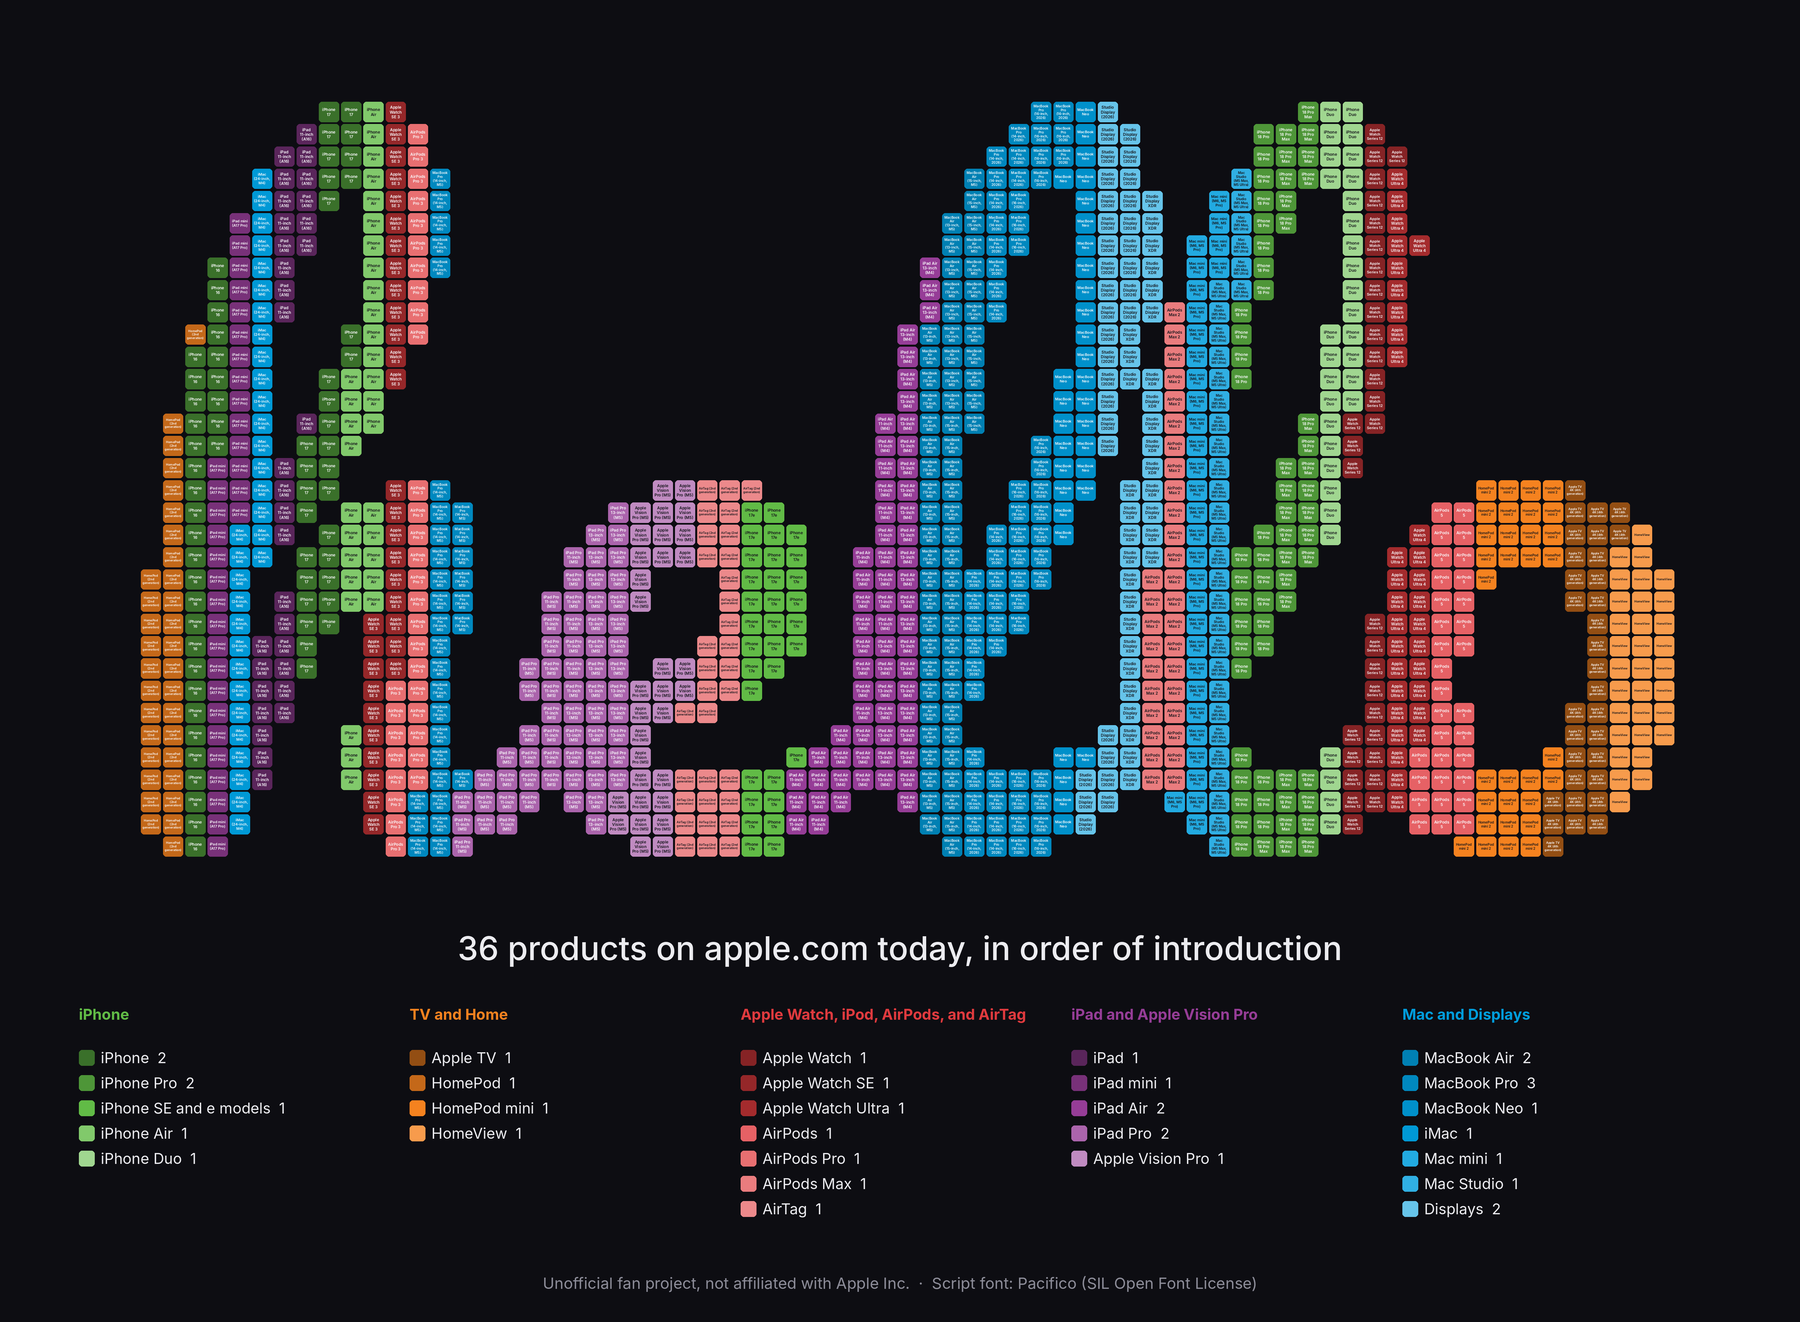
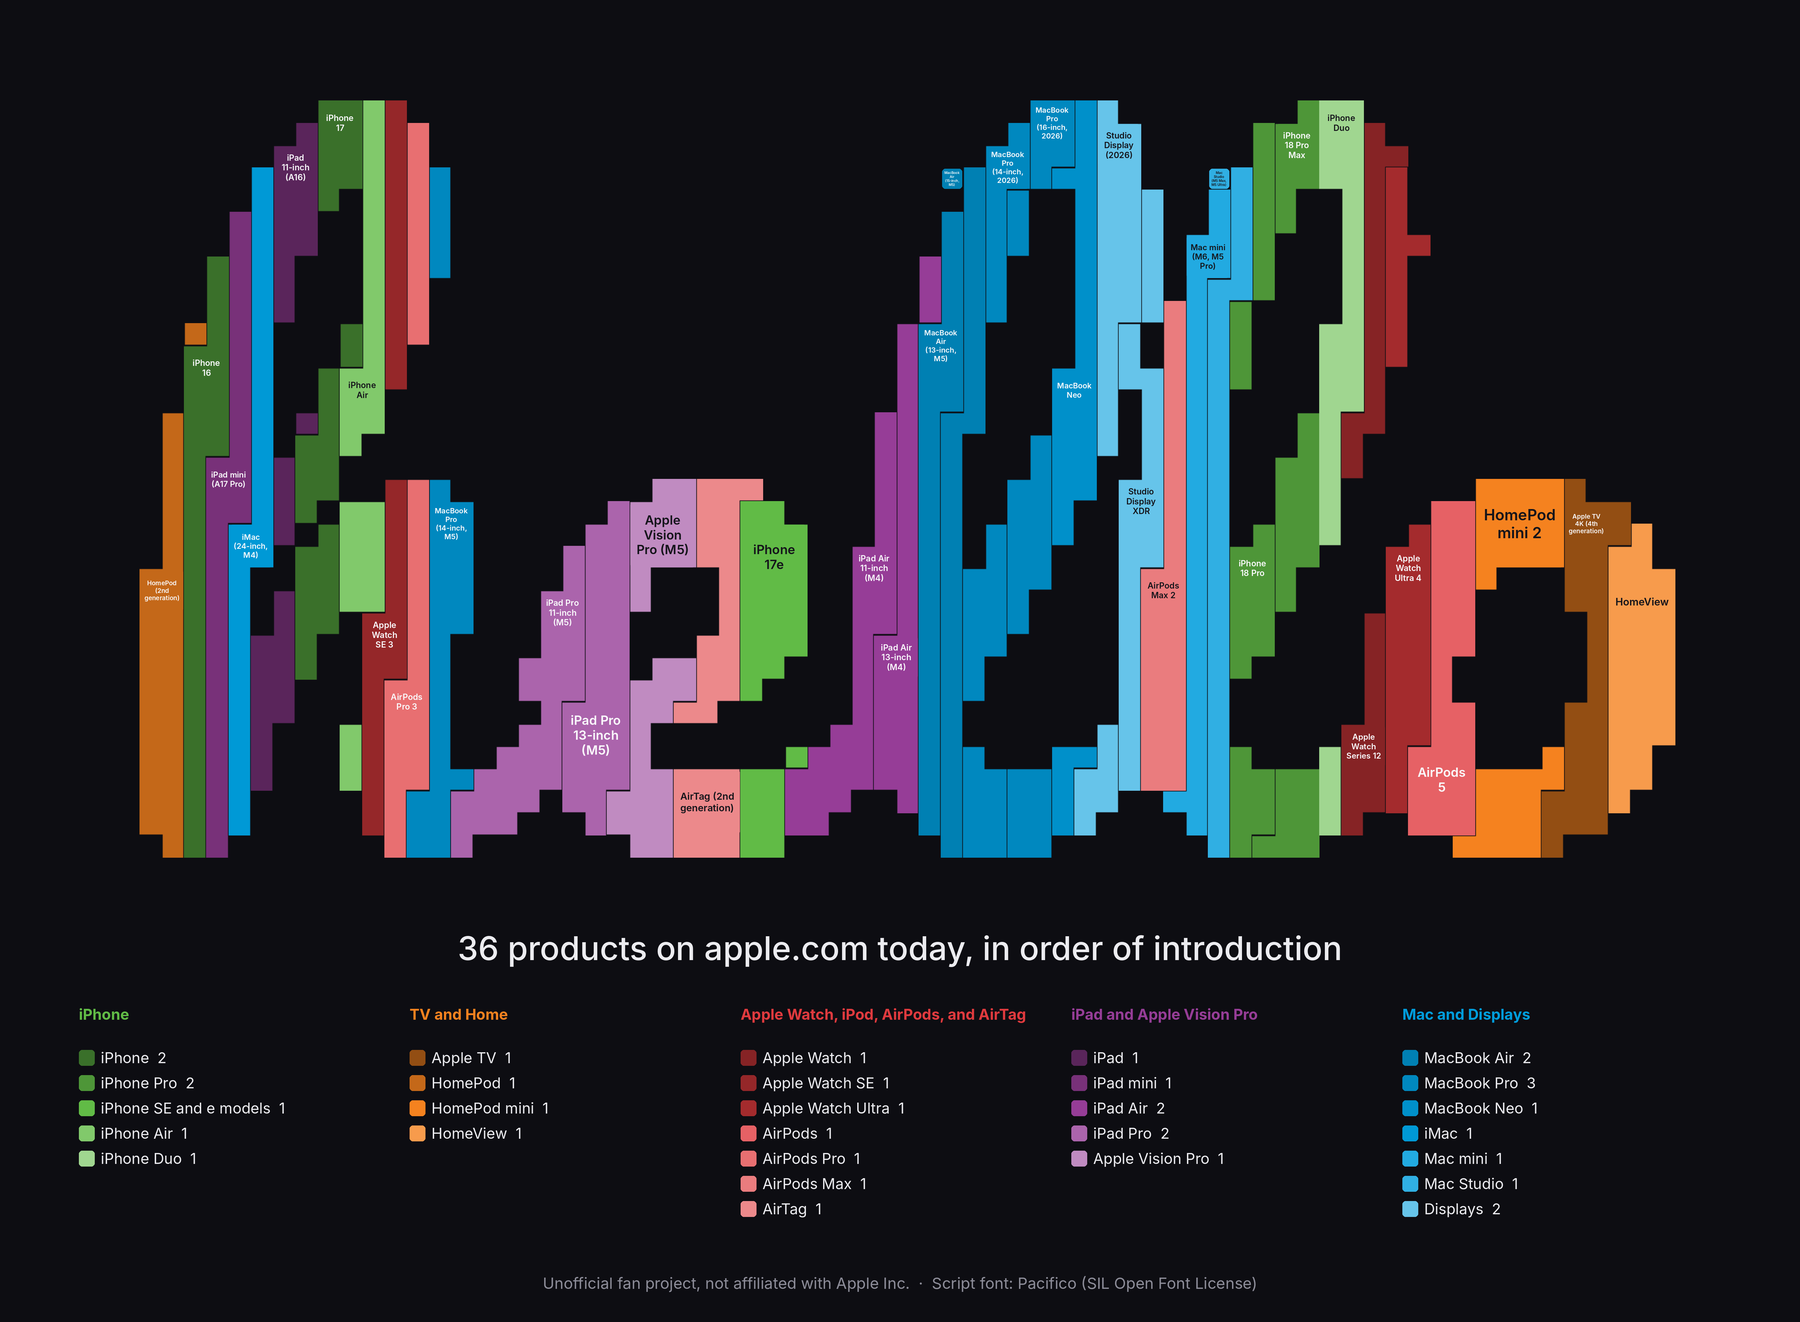
Show each product once as a single merged shape
Claude-Session: https://claude.ai/code/session_01MyV9r8x459Jz8C5bHCgrmS

Changed region(s): [[0.0622, 0.062, 0.9333, 0.6513]]

diff --git a/scripts/render.py b/scripts/render.py
@@ -16,7 +16,7 @@ import math
 from dataclasses import dataclass
 
 import numpy as np
-from PIL import Image, ImageDraw, ImageFont
+from PIL import Image, ImageDraw, ImageFilter, ImageFont
 
 from common import (GROUPS, OUTPUT_DIR, RAINBOW, ROOT, load_products, photo_path,
                     product_group, product_type, type_color)
@@ -254,6 +254,65 @@ def draw_tile(canvas: Image.Image, box, product: dict, radius: int) -> bool:
     return False
 
 
+def product_runs(tiles: list[tuple[Cell, dict]]) -> list[tuple[dict, list[Cell]]]:
+    """Group neighboring tiles that show the same product into one run."""
+    runs: list[tuple[dict, list[Cell]]] = []
+    for cell, product in tiles:
+        if runs and runs[-1][0] is product:
+            runs[-1][1].append(cell)
+        else:
+            runs.append((product, [cell]))
+    return runs
+
+
+def largest_square(cells: list[Cell]) -> tuple[float, float, int]:
+    """Top-left corner and side (in tiles) of the biggest square block inside a run."""
+    size = cells[0].size
+    x0, y0 = min(c.x for c in cells), min(c.y for c in cells)
+    occupied = {(round((c.x - x0) / size), round((c.y - y0) / size)) for c in cells}
+    cols = max(c for c, _ in occupied) + 1
+    rows = max(r for _, r in occupied) + 1
+    best = (0, 0, 1)
+    side = [[0] * (cols + 1) for _ in range(rows + 1)]
+    for r in range(rows):
+        for c in range(cols):
+            if (c, r) in occupied:
+                side[r + 1][c + 1] = 1 + min(side[r][c], side[r][c + 1], side[r + 1][c])
+                if side[r + 1][c + 1] > best[2]:
+                    k = side[r + 1][c + 1]
+                    best = (c - k + 1, r - k + 1, k)
+    c, r, k = best
+    return x0 + c * size, y0 + r * size, k
+
+
+def draw_region(canvas: Image.Image, cells: list[Cell], product: dict, origin, gap: float,
+                radius: int) -> bool:
+    """Draw one product as a single colored shape, with its photo or name shown once.
+
+    The run's tiles merge into one region, so a product that needs many tiles to keep the
+    letters readable still appears only once. Returns True when a photo was used.
+    """
+    size = cells[0].size
+    ox, oy = origin
+    left = int(ox + min(c.x for c in cells))
+    top = int(oy + min(c.y for c in cells))
+    right = int(ox + max(c.x for c in cells) + size) + 1
+    bottom = int(oy + max(c.y for c in cells) + size) + 1
+    mask = Image.new("L", (right - left, bottom - top), 0)
+    md = ImageDraw.Draw(mask)
+    for c in cells:
+        md.rectangle((ox + c.x - left, oy + c.y - top,
+                      ox + c.x + size - left, oy + c.y + size - top), fill=255)
+    shrink = max(3, int(gap) | 1)  # odd filter size: leaves a thin gap between products
+    mask = mask.filter(ImageFilter.MinFilter(shrink)).filter(ImageFilter.GaussianBlur(0.8))
+    color = type_color(product_type(product))
+    canvas.paste(Image.new("RGB", mask.size, color), (left, top), mask)
+
+    sx, sy, k = largest_square(cells)
+    box = (ox + sx + gap / 2, oy + sy + gap / 2, ox + sx + k * size - gap / 2, oy + sy + k * size - gap / 2)
+    return draw_tile(canvas, box, product, radius)
+
+
 # --------------------------------------------------------------------------- composition
 
 def render_word(word: str, products: list[dict], caption: str, mode: str) -> Image.Image:
@@ -287,10 +346,8 @@ def render_word(word: str, products: list[dict], caption: str, mode: str) -> Ima
     gap = max(1.0, size * 0.1)
     radius = max(1, int(size * 0.16))
     photos = 0
-    for cell, product in tiles:
-        box = (MARGIN + cell.x + gap / 2, word_top + cell.y + gap / 2,
-               MARGIN + cell.x + size - gap / 2, word_top + cell.y + size - gap / 2)
-        photos += draw_tile(canvas, box, product, radius)
+    for product, cells in product_runs(tiles):
+        photos += draw_region(canvas, cells, product, (MARGIN, word_top), gap, radius)
 
     draw = ImageDraw.Draw(canvas)
     draw.text((width / 2, caption_y), caption, font=font(int(110 * k), "Medium"), fill=TEXT, anchor="mm")

diff --git a/README.md b/README.md
@@ -17,7 +17,7 @@ Full-size images: [hello.jpg](output/hello.jpg) and [thank_you.jpg](output/thank
 1. **The data** lives in [`data/products.json`](data/products.json). Each product has a name, a category, a release month, and a `current` flag that says whether apple.com still sells it new.
 2. **The words** are set in [Pacifico](https://fonts.google.com/specimen/Pacifico), an open-source script font included in `assets/fonts`.
 3. **The tiles** fill each word completely. The script picks a tile size small enough for the letters to stay readable, then fits exactly that many square tiles inside the word with no empty slots.
-4. **The order** follows the word from left to right. **hello** lists today's products by introduction date, and **thank you** lists past products by retirement date. Each product gets a short run of neighboring tiles, so the products read in sequence along the word. Retirement dates come from Wikipedia's list of Apple products.
+4. **The order** follows the word from left to right. **hello** lists today's products by introduction date, and **thank you** lists past products by retirement date. Each product fills one connected section of the letters, shown as a single colored shape with its photo or name appearing once, so no product repeats. Retirement dates come from Wikipedia's list of Apple products.
 5. **The photos** come from Wikimedia Commons, the free media library behind Wikipedia. Each tile shows its product's photo in a frame of its category color. Products without a freely licensed photo show their name on a colored tile instead. Every photo is credited in [CREDITS.md](CREDITS.md).
 6. **The weekly update** runs on GitHub Actions every Tuesday at 3:00 p.m. Pacific time. It checks Wikipedia for new releases, checks apple.com for the current lineup, downloads any missing photos, redraws the images, and opens a pull request for review. When Apple retires a product, it moves from **hello** to **thank you** automatically.
 
